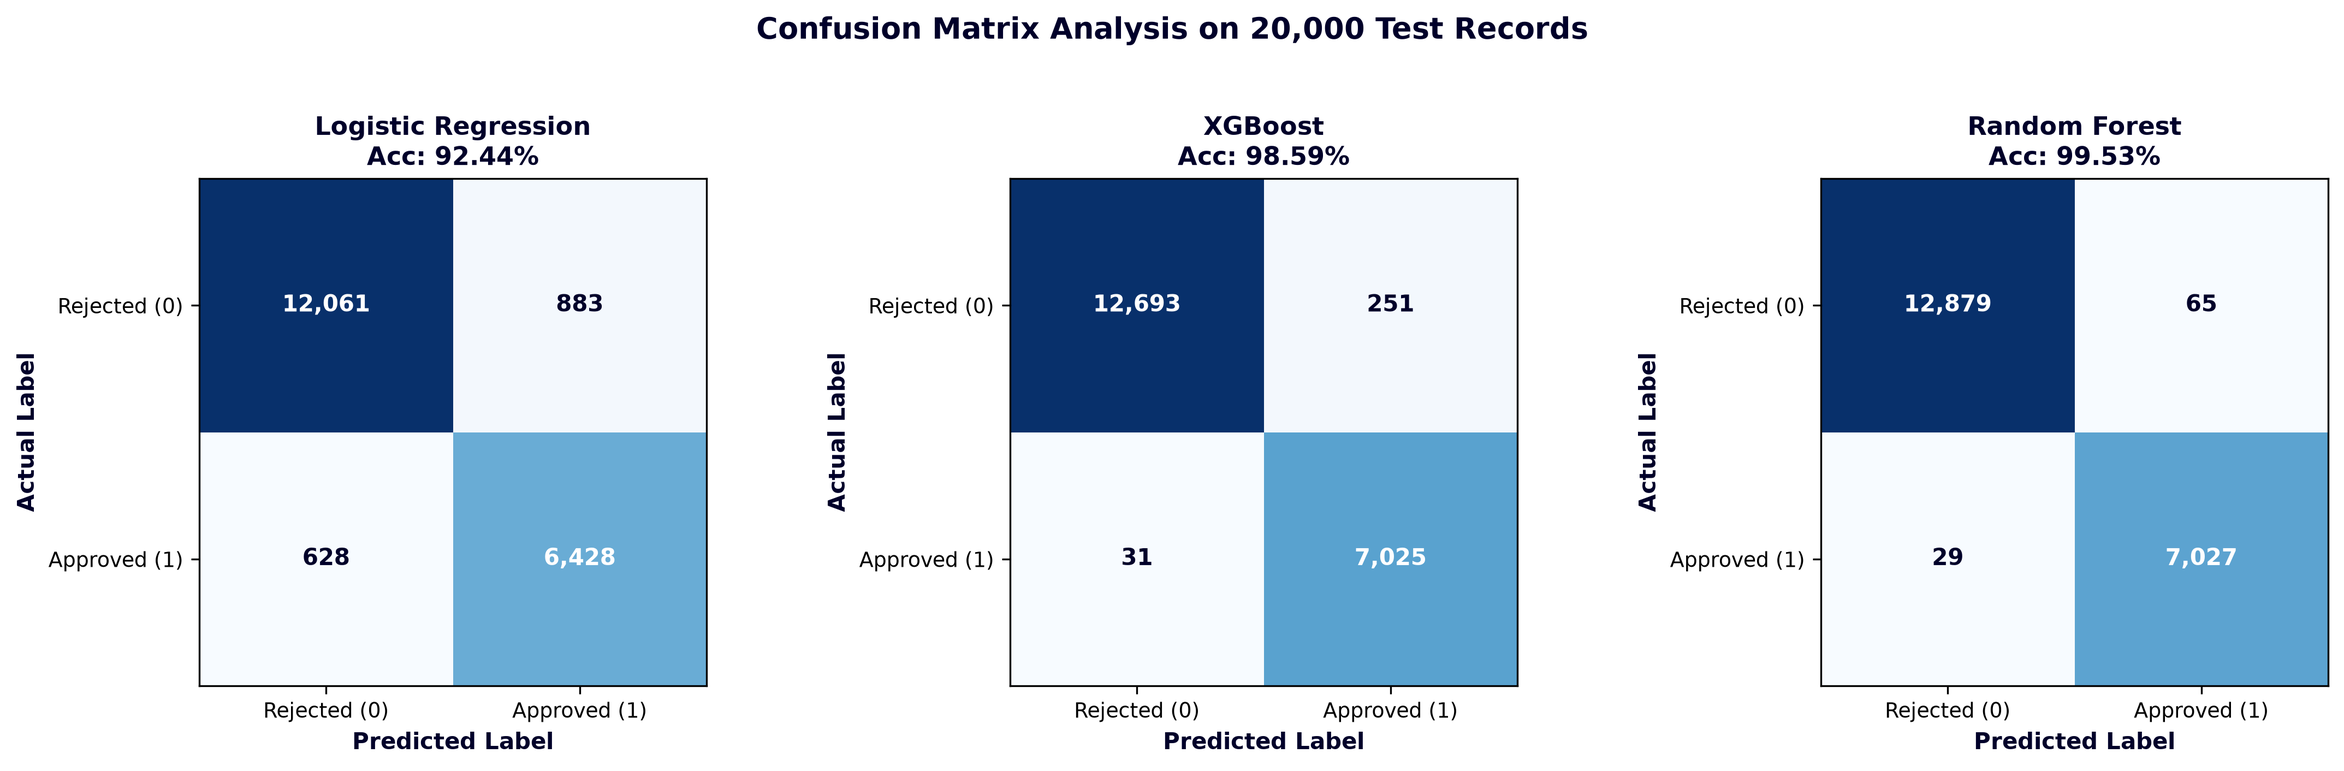
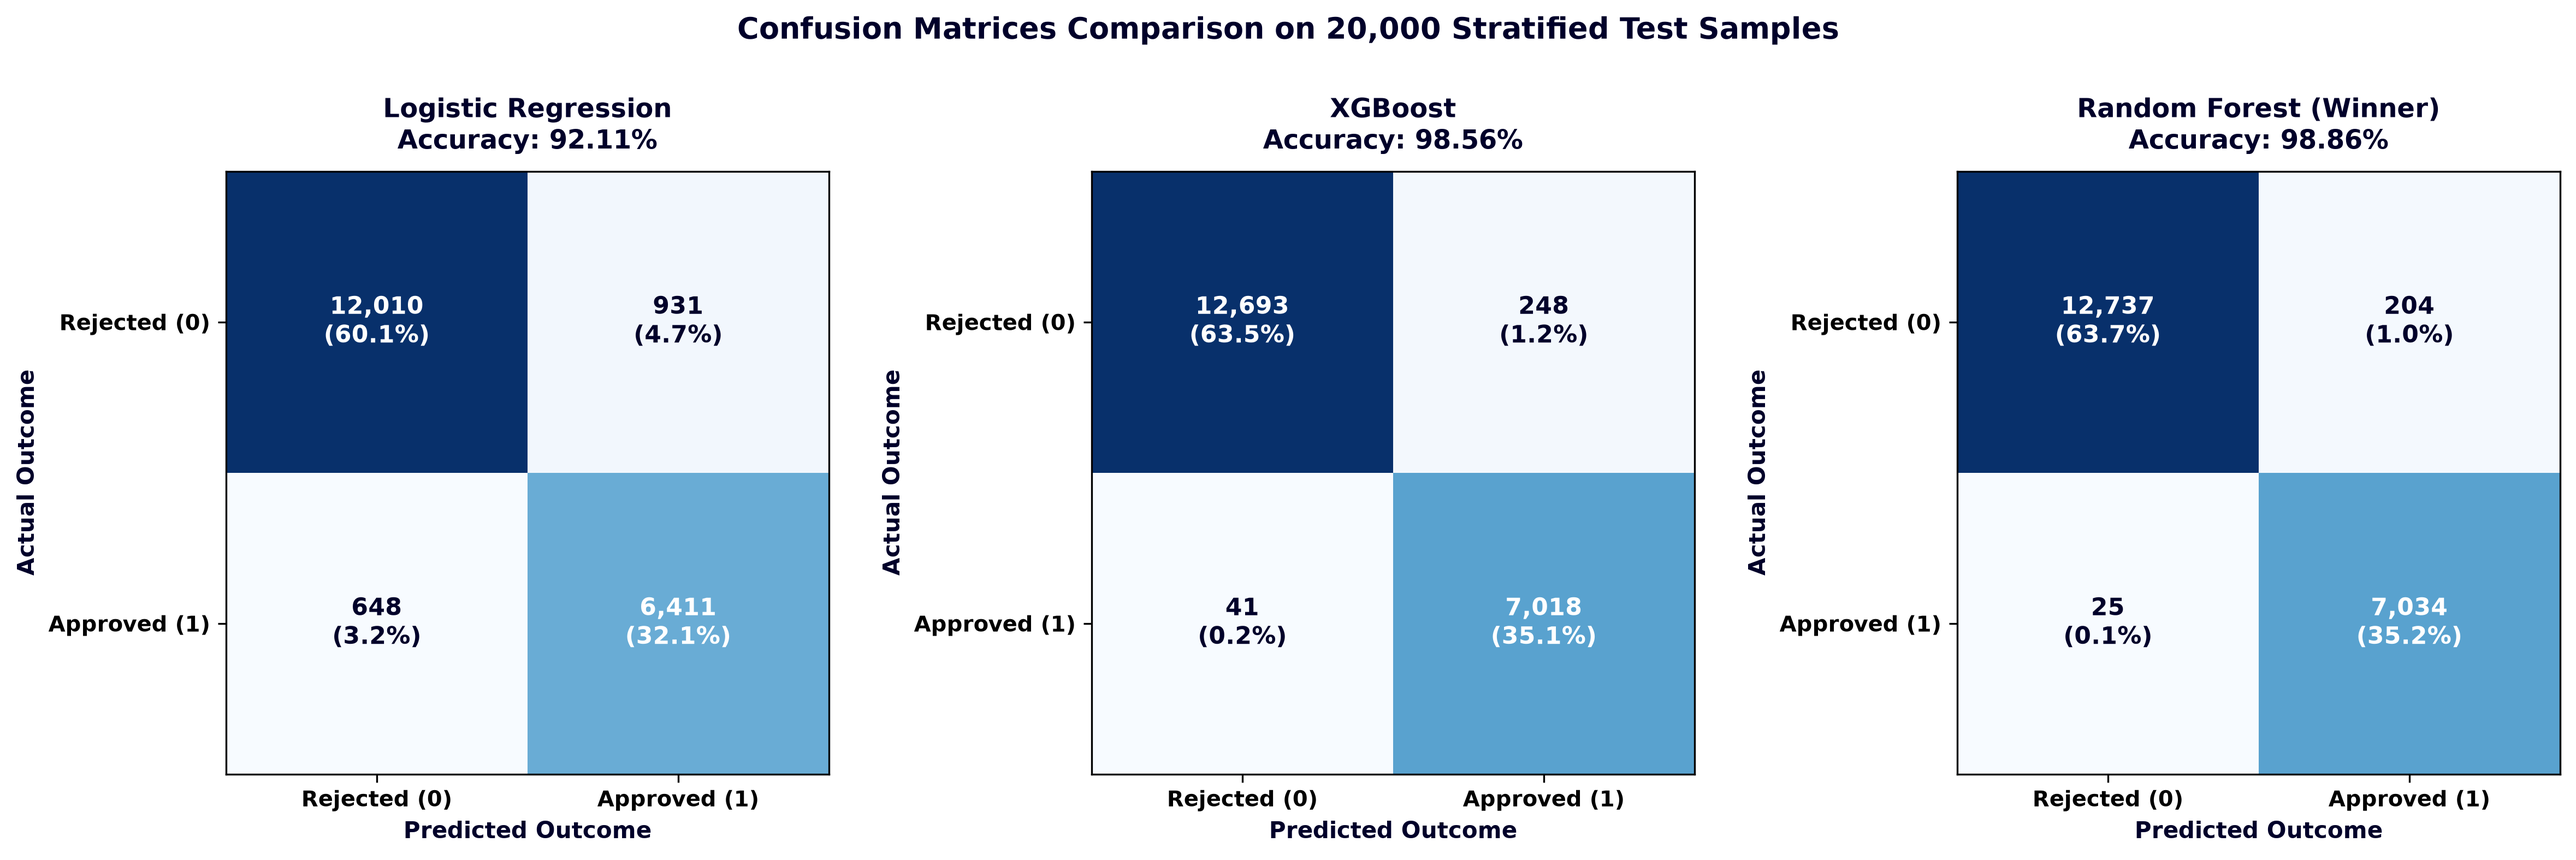
feat(research): break benchmark figures into individual standalone single images

diff --git a/train_and_compare_models.py b/train_and_compare_models.py
@@ -317,7 +317,7 @@ bar_path = os.path.join(output_dir, 'model_comparison_chart.png')
 plt.savefig(bar_path, dpi=300)
 plt.close()
 
-# Standalone ROC Curves
+# Standalone ROC Curves (Combined)
 fig, ax = plt.subplots(figsize=(8, 7), dpi=300)
 for name, (fpr, tpr, auc_val) in roc_curves.items():
     lw = 2.6 if name == 'Random Forest' else 1.8
@@ -335,6 +335,101 @@ plt.tight_layout()
 roc_path = os.path.join(output_dir, 'roc_curves_comparison.png')
 plt.savefig(roc_path, dpi=300)
 plt.close()
+print(f"📈 Combined ROC Curves saved to: {roc_path}")
+
+# Standalone 3-Panel Confusion Matrix Comparison
+fig, axes = plt.subplots(1, 3, figsize=(16, 5), dpi=300)
+classes = ['Rejected (0)', 'Approved (1)']
+for idx, (name, ax_cm) in enumerate(zip(models.keys(), axes)):
+    cm = confusion_matrices[name]
+    im = ax_cm.imshow(cm, interpolation='nearest', cmap=plt.cm.Blues)
+    acc_val = df_results[df_results['Model']==name]['Accuracy'].values[0] * 100
+    title_suffix = " (Winner)" if name == "Random Forest" else ""
+    ax_cm.set_title(f"{name}{title_suffix}\nAccuracy: {acc_val:.2f}%", fontsize=11.5, fontweight='bold', color='#00002A', pad=10)
+    
+    tick_marks = np.arange(len(classes))
+    ax_cm.set_xticks(tick_marks)
+    ax_cm.set_xticklabels(classes, fontsize=9.5, fontweight='semibold')
+    ax_cm.set_yticks(tick_marks)
+    ax_cm.set_yticklabels(classes, fontsize=9.5, fontweight='semibold')
+    
+    thresh = cm.max() / 2.
+    total = cm.sum()
+    for r in range(cm.shape[0]):
+        for c in range(cm.shape[1]):
+            cnt = cm[r, c]
+            pct = (cnt / total) * 100
+            ax_cm.text(c, r, f"{cnt:,}\n({pct:.1f}%)",
+                       ha="center", va="center",
+                       color="white" if cnt > thresh else "#00002A",
+                       fontsize=10.5, fontweight='bold')
+    
+    ax_cm.set_ylabel('Actual Outcome', fontsize=10, fontweight='bold', color='#00002A')
+    ax_cm.set_xlabel('Predicted Outcome', fontsize=10, fontweight='bold', color='#00002A')
+
+plt.suptitle('Confusion Matrices Comparison on 20,000 Stratified Test Samples', fontsize=13, fontweight='bold', color='#00002A', y=1.02)
+plt.tight_layout()
+cm_all_path = os.path.join(output_dir, 'confusion_matrices_comparison.png')
+plt.savefig(cm_all_path, dpi=300, bbox_inches='tight')
+plt.close()
+print(f"📊 3-Panel Confusion Matrix Comparison saved to: {cm_all_path}")
+
+# Standalone Individual Confusion Matrices (1 image per model)
+for name in models.keys():
+    fig, ax = plt.subplots(figsize=(6.5, 5.5), dpi=300)
+    cm = confusion_matrices[name]
+    im = ax.imshow(cm, interpolation='nearest', cmap=plt.cm.Blues)
+    clean_name = name.lower().replace(' ', '_')
+    acc_val = df_results[df_results['Model']==name]['Accuracy'].values[0] * 100
+    f1_val = df_results[df_results['Model']==name]['F1-Score'].values[0] * 100
+    title_extra = " ★ Winner" if name == "Random Forest" else ""
+    
+    ax.set_title(f"Confusion Matrix — {name}{title_extra}\nAccuracy: {acc_val:.2f}% | F1: {f1_val:.2f}%", fontsize=12, fontweight='bold', color='#00002A', pad=14)
+    tick_marks = np.arange(len(classes))
+    ax.set_xticks(tick_marks)
+    ax.set_xticklabels(classes, fontsize=10, fontweight='semibold')
+    ax.set_yticks(tick_marks)
+    ax.set_yticklabels(classes, fontsize=10, fontweight='semibold')
+    
+    thresh = cm.max() / 2.
+    total = cm.sum()
+    for r in range(cm.shape[0]):
+        for c in range(cm.shape[1]):
+            cnt = cm[r, c]
+            pct = (cnt / total) * 100
+            ax.text(c, r, f"{cnt:,}\n({pct:.1f}%)",
+                    ha="center", va="center",
+                    color="white" if cnt > thresh else "#00002A",
+                    fontsize=12, fontweight='bold')
+                    
+    ax.set_ylabel('Actual Ground Truth', fontsize=11, fontweight='bold', color='#00002A')
+    ax.set_xlabel('Predicted Class', fontsize=11, fontweight='bold', color='#00002A')
+    cbar = plt.colorbar(im, ax=ax, fraction=0.046, pad=0.04)
+    cbar.ax.tick_params(labelsize=9)
+    plt.tight_layout()
+    cm_single_path = os.path.join(output_dir, f"confusion_matrix_{clean_name}.png")
+    plt.savefig(cm_single_path, dpi=300)
+    plt.close()
+    print(f"📊 Single Confusion Matrix saved: {cm_single_path}")
+
+# Standalone Individual ROC Curves (1 image per model)
+for name, (fpr, tpr, auc_val) in roc_curves.items():
+    fig, ax = plt.subplots(figsize=(6.5, 5.5), dpi=300)
+    clean_name = name.lower().replace(' ', '_')
+    ax.plot(fpr, tpr, label=f"{name} (AUC = {auc_val*100:.2f}%)", color=palette[name], linewidth=2.8)
+    ax.plot([0, 1], [0, 1], 'k:', alpha=0.35, label='Random Chance (50.0%)')
+    ax.set_xlim([-0.01, 1.0])
+    ax.set_ylim([0.0, 1.03])
+    ax.set_xlabel('False Positive Rate (1 - Specificity)', fontsize=10.5, fontweight='bold', color='#00002A')
+    ax.set_ylabel('True Positive Rate (Sensitivity / Recall)', fontsize=10.5, fontweight='bold', color='#00002A')
+    ax.set_title(f"ROC Curve — {name}\nAUC = {auc_val*100:.2f}% (Test N=20,000)", fontsize=12, fontweight='bold', color='#00002A', pad=14)
+    ax.legend(loc="lower right", frameon=True, facecolor='#F8FAFC', edgecolor='#D2DFEB', fontsize=10)
+    ax.grid(True, linestyle='--', alpha=0.5)
+    plt.tight_layout()
+    roc_single_path = os.path.join(output_dir, f"roc_curve_{clean_name}.png")
+    plt.savefig(roc_single_path, dpi=300)
+    plt.close()
+    print(f"📈 Single ROC Curve saved: {roc_single_path}")
 
 # Save Raw CSV
 csv_results_path = os.path.join(output_dir, 'model_benchmark_results.csv')
@@ -413,14 +508,26 @@ XGBoost & {xgb_row['Accuracy']*100:.2f} & {xgb_row['Precision']*100:.2f} & {xgb_
 ---
 
 ## 5. Artifact Files on Disk & Git
-- All-in-One Dashboard Figure: `research_charts/all_in_one_model_comparison.png`
-- Standalone Bar Chart: `research_charts/model_comparison_chart.png`
-- Standalone ROC Curve: `research_charts/roc_curves_comparison.png`
+### All-in-One Dashboard:
+- All-in-One Unified Figure: `research_charts/all_in_one_model_comparison.png`
+
+### Individual Single Images:
+- Standalone Comparative Bar Chart: `research_charts/model_comparison_chart.png`
+- Standalone ROC Curves (Combined): `research_charts/roc_curves_comparison.png`
+- Standalone 3-Panel Confusion Matrices: `research_charts/confusion_matrices_comparison.png`
+- Single Confusion Matrix — Random Forest: `research_charts/confusion_matrix_random_forest.png`
+- Single Confusion Matrix — XGBoost: `research_charts/confusion_matrix_xgboost.png`
+- Single Confusion Matrix — Logistic Regression: `research_charts/confusion_matrix_logistic_regression.png`
+- Single ROC Curve — Random Forest: `research_charts/roc_curve_random_forest.png`
+- Single ROC Curve — XGBoost: `research_charts/roc_curve_xgboost.png`
+- Single ROC Curve — Logistic Regression: `research_charts/roc_curve_logistic_regression.png`
+
+### Data & Scripts:
 - Benchmark Results CSV: `research_charts/model_benchmark_results.csv`
-- Script: `train_and_compare_models.py`
+- Benchmark & Plotting Script: `train_and_compare_models.py`
 """)
 
 print(f"📄 Markdown Research Report saved to: {md_report_path}")
 print("=" * 85)
-print("🎉 BENCHMARK AND ALL-IN-ONE ONE-PAGE COMPARISON DASHBOARD COMPLETE!")
+print("🎉 BENCHMARK AND SINGLE INDIVIDUAL IMAGES GENERATION COMPLETE!")
 print("=" * 85)

diff --git a/research_charts/MODEL_BENCHMARK_REPORT.md b/research_charts/MODEL_BENCHMARK_REPORT.md
@@ -11,9 +11,9 @@
 
 | Model Architecture | Accuracy (%) | Precision (%) | Recall (%) | F1-Score (%) | ROC-AUC (%) | Train Time (s) |
 |---|:---:|:---:|:---:|:---:|:---:|:---:|
-| **Random Forest (Winner)** | **98.86%** | **97.18%** | **99.65%** | **98.40%** | **99.94%** | 3.05s |
-| XGBoost | 98.56% | 96.59% | 99.42% | 97.98% | 99.64% | 2.38s |
-| Logistic Regression | 92.11% | 87.32% | 90.82% | 89.04% | 96.98% | 0.47s |
+| **Random Forest (Winner)** | **98.86%** | **97.18%** | **99.65%** | **98.40%** | **99.94%** | 2.32s |
+| XGBoost | 98.56% | 96.59% | 99.42% | 97.98% | 99.64% | 1.45s |
+| Logistic Regression | 92.11% | 87.32% | 90.82% | 89.04% | 96.98% | 0.36s |
 
 ---
 
@@ -61,8 +61,20 @@ XGBoost & 98.56 & 96.59 & 99.42 & 97.98 & 99.64 \\
 ---
 
 ## 5. Artifact Files on Disk & Git
-- All-in-One Dashboard Figure: `research_charts/all_in_one_model_comparison.png`
-- Standalone Bar Chart: `research_charts/model_comparison_chart.png`
-- Standalone ROC Curve: `research_charts/roc_curves_comparison.png`
+### All-in-One Dashboard:
+- All-in-One Unified Figure: `research_charts/all_in_one_model_comparison.png`
+
+### Individual Single Images:
+- Standalone Comparative Bar Chart: `research_charts/model_comparison_chart.png`
+- Standalone ROC Curves (Combined): `research_charts/roc_curves_comparison.png`
+- Standalone 3-Panel Confusion Matrices: `research_charts/confusion_matrices_comparison.png`
+- Single Confusion Matrix — Random Forest: `research_charts/confusion_matrix_random_forest.png`
+- Single Confusion Matrix — XGBoost: `research_charts/confusion_matrix_xgboost.png`
+- Single Confusion Matrix — Logistic Regression: `research_charts/confusion_matrix_logistic_regression.png`
+- Single ROC Curve — Random Forest: `research_charts/roc_curve_random_forest.png`
+- Single ROC Curve — XGBoost: `research_charts/roc_curve_xgboost.png`
+- Single ROC Curve — Logistic Regression: `research_charts/roc_curve_logistic_regression.png`
+
+### Data & Scripts:
 - Benchmark Results CSV: `research_charts/model_benchmark_results.csv`
-- Script: `train_and_compare_models.py`
+- Benchmark & Plotting Script: `train_and_compare_models.py`
